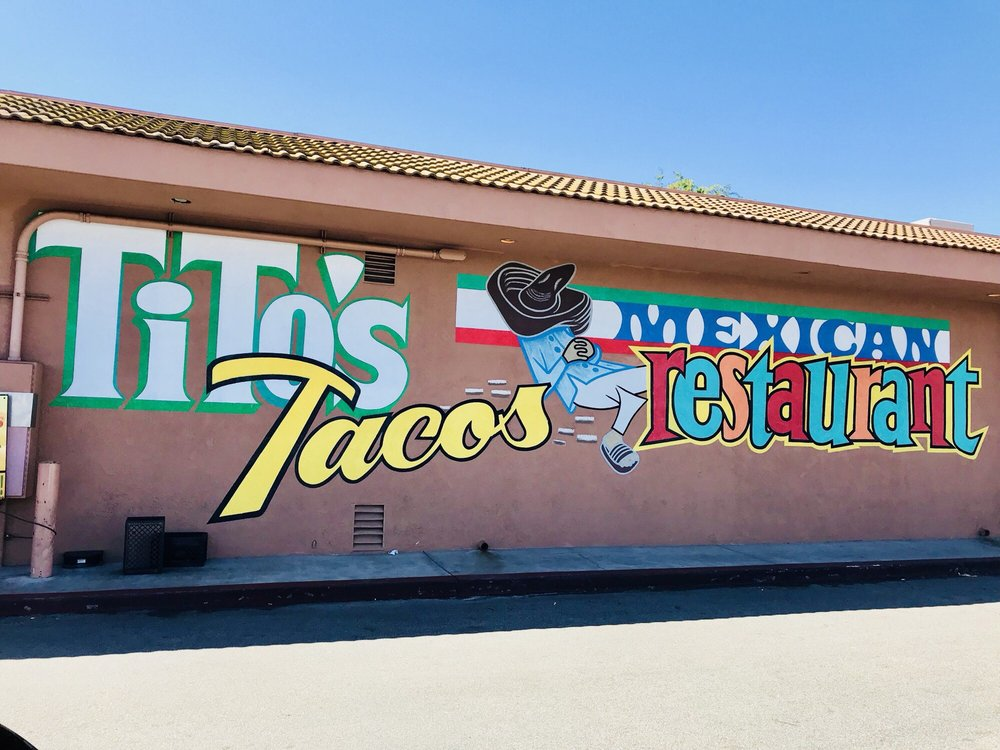
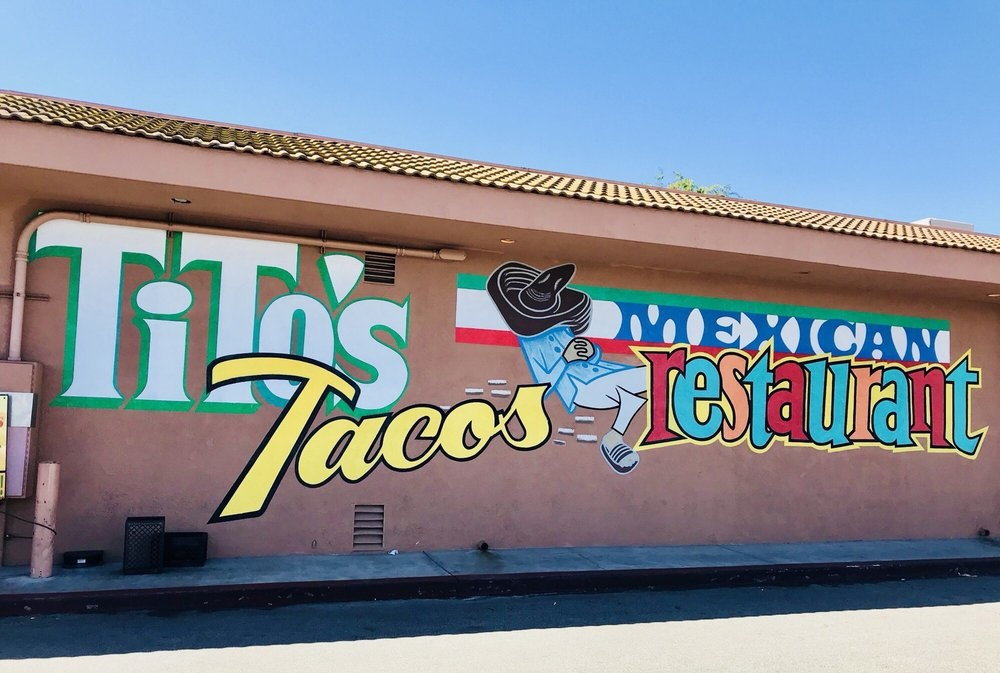
Midterm (C15): completed About page for all responsive screen sizes; slight edit to mural image; changed name 'Location' to 'Contact Us'

diff --git a/week5-6_Midterm/Pages/About.html b/week5-6_Midterm/Pages/About.html
@@ -21,39 +21,41 @@
             <ul class="nav-flex">
                 <li class="list-a"> <a href="About.html">About</a> </li>
                 <li> <a href="Menu.html">Menu</a> </li>
-                <li> <a href="Location.html">Location</a> </li>
+                <li> <a href="Location.html">Contact Us</a> </li>
                 <li> <a href="News.html">News</a> </li>
             </ul>
         </nav>    
     </header>
 
-    <main class="grid-container main-grid">
-        <div class="grid-item main-item-a">
+    <main class="grid-container about-grid">
+        <div class="grid-item about-item-a">
             <img src="../Assets/about_header_img.png" alt="About Header Image_Red Car">
         </div>
 
-        <div class="grid-item main-item-b">
-            <p>Since 1959, Tito’s Tacos has provided their beloved customers with delicious Mexican Food prepared fresh daily based upon the restaurant’s original recipes.<br>Their award-winning Mexican Food Cuisine has become a longtime favorite for people from all walks of life and cultural backgrounds desiring a south-of-the-border eating experience without leaving the greater Los Angeles area.<br>Tito’s Tacos employees are fully trained in how to properly and healthfully prepare each and every menu item in order to achieve the utmost in flavorsome results for people with really good taste.</p>
+        <div class="grid-item about-item-b">
+            <h1>Since 1959</h1>
+
+            <p>Tito’s Tacos has provided their beloved customers with delicious Mexican Food prepared fresh daily based upon the restaurant’s original recipes.<br><br>Their award-winning Mexican Food Cuisine has become a longtime favorite for people from all walks of life and cultural backgrounds desiring a south-of-the-border eating experience without leaving the greater Los Angeles area.<br><br>Tito’s Tacos employees are fully trained in how to properly and healthfully prepare each and every menu item in order to achieve the utmost in flavorsome results for people with really good taste.</p>
         </div>
 
-        <div class="grid-item main-item-c">
+        <div class="grid-item about-item-c">
             <img src="../Assets/outside_titos.jpg" alt="Customers waiting outside Tito's Tacos to order and eat">
         </div>
 
-        <div class="grid-item main-item-d">
+        <div class="grid-item about-item-d">
             <img src="../Assets/mural.jpg" alt="Large mural on side of Tito's Taco's building">
         </div>
 
-        <div class="grid-item main-item-e">
+        <div class="grid-item about-item-e">
             <img src="../Assets/ordering.jpg" alt="woman worker taking customer's order">
         </div>
 
-        <div class="grid-item main-item-f">
+        <div class="grid-item about-item-f">
             <h1>For People with Really Good Taste!</h1>
         </div>
     </main>
 
-    <footer class="red-bg footer-grid-2">
+    <footer class="red-bg grid-container footer-grid-2">
         <div class="grid-container footer-grid fg-a">
             <div class="grid-item home-item-g">
                 <p>© Tito’s Tacos, 2019</p>  

diff --git a/week5-6_Midterm/CSS/layout.css b/week5-6_Midterm/CSS/layout.css
@@ -88,10 +88,10 @@
     }
 
     /* About Page */
-    .main-grid {
-        display: grid;
+    .about-grid {
         grid-template-columns: auto;
         margin: 50px auto;
+        padding: 0px 40px;
     }
 
     /* Menu Page */
@@ -159,6 +159,40 @@
     }
 
     /* About Page */
+    .about-grid {
+        grid-template-columns: 30% 4.5% 30% 4.5% 30%;
+        grid-template-rows: auto auto auto auto;
+    }
+
+    .about-item-a {
+        grid-column: 2 / span 3;
+        grid-row: 1;
+    }
+
+    .about-item-b {
+        grid-column: 1 / span 5;
+        grid-row: 2;
+    }
+
+    .about-item-c {
+        grid-column: 1 / span 1;
+        grid-row: 3;
+    }
+
+    .about-item-d {
+        grid-column: 3 / span 1;
+        grid-row: 3;
+    }
+
+    .about-item-e {
+        grid-column: 5 / span 1;
+        grid-row: 3;
+    }
+
+    .about-item-f {
+        grid-column: 1 / span 5;
+        grid-row: 4;
+    }
 
     /* Menu Page */
 
@@ -172,7 +206,6 @@
 
     /* Footer for all pages excluding  Home Page */
     .footer-grid-2 {
-        display: grid;
         grid-template-columns: 65% auto 30%;
         justify-content: space-between;
     }
@@ -195,7 +228,7 @@
     }
 
     .fg-b img {
-        width: 70%;
+        width: 60%;
     }
 
     /* About Page */

diff --git a/week5-6_Midterm/main.css b/week5-6_Midterm/main.css
@@ -53,6 +53,39 @@ h1, h2, h3, p {
     }
 
     /* About Page */
+    .about-grid.about-item {
+        width: 100%;
+        margin: 0px auto;
+    }
+
+    .about-grid img {
+        width: 100%;
+    }
+
+    .about-item-a {
+        padding-bottom: 30px;
+    }
+
+    .about-item-b {
+        padding-bottom: 50px;
+    }
+
+    .about-grid h1, p {
+        text-align: center;
+    }
+
+    .about-grid p {
+        font-size: 20px;
+    }
+
+    .about-grid h1 {
+        font-weight: 900;
+    }
+
+    .about-item-f {
+        padding-top: 50px;
+        font-style: italic;
+    }
 
     /* Menu Page */
 
@@ -114,10 +147,19 @@ h1, h2, h3, p {
 /* Large Laptop Screens */
 @media(min-width: 960px) {
     main {
-        max-width: 1200px;
+        max-width: 1000px;
     }
 
     header, footer {
-        max-width: 1600px;
+        max-width: 1350px;
     }
+
+    /* About Page */
+
+    /* Menu Page */
+
+    /* Location Page */
+
+    /* News Page */
+
 }

diff --git a/week5-6_Midterm/Pages/Location.html b/week5-6_Midterm/Pages/Location.html
@@ -21,15 +21,17 @@
             <ul class="nav-flex">
                 <li> <a href="About.html">About</a> </li>
                 <li> <a href="Menu.html">Menu</a> </li>
-                <li class="list-c"> <a href="Location.html">Location</a> </li>
+                <li class="list-c"> <a href="Location.html">Contact Us</a> </li>
                 <li> <a href="News.html">News</a> </li>
             </ul>
         </nav>
     </header>
 
-    <main></main>
+    <main>
+        
+    </main>
 
-    <footer class="red-bg footer-grid-2">
+    <footer class="red-bg grid-container footer-grid-2">
         <div class="grid-container footer-grid fg-a">
             <div class="grid-item home-item-g">
                 <p>© Tito’s Tacos, 2019</p>  

diff --git a/week5-6_Midterm/Pages/Menu.html b/week5-6_Midterm/Pages/Menu.html
@@ -21,7 +21,7 @@
             <ul class="nav-flex">
                 <li> <a href="About.html">About</a> </li>
                 <li class="list-b"> <a href="Menu.html">Menu</a> </li>
-                <li> <a href="Location.html">Location</a> </li>
+                <li> <a href="Location.html">Contact Us</a> </li>
                 <li> <a href="News.html">News</a> </li>
             </ul>
         </nav>    
@@ -38,7 +38,7 @@
         </div>
     </main>
 
-    <footer class="red-bg footer-grid-2">
+    <footer class="red-bg grid-container footer-grid-2">
         <div class="grid-container footer-grid fg-a">
             <div class="grid-item home-item-g">
                 <p>© Tito’s Tacos, 2019</p>  

diff --git a/week5-6_Midterm/Pages/News.html b/week5-6_Midterm/Pages/News.html
@@ -21,7 +21,7 @@
             <ul class="nav-flex">
                 <li> <a href="About.html">About</a> </li>
                 <li> <a href="Menu.html">Menu</a> </li>
-                <li> <a href="Location.html">Location</a> </li>
+                <li> <a href="Location.html">Contact Us</a> </li>
                 <li class="list-d"> <a href="News.html">News</a> </li>
             </ul>
         </nav>
@@ -29,7 +29,7 @@
 
     <main></main>
 
-    <footer class="red-bg footer-grid-2">
+    <footer class="red-bg grid-container footer-grid-2">
         <div class="grid-container footer-grid fg-a">
             <div class="grid-item home-item-g">
                 <p>© Tito’s Tacos, 2019</p>  

diff --git a/week5-6_Midterm/index.html b/week5-6_Midterm/index.html
@@ -21,7 +21,7 @@
             <ul class="nav-flex">
                 <li class="list-hover-a"> <a class="link-a" href="Pages/About.html">About</a> </li>
                 <li class="list-hover-b"> <a class="link-b" href="Pages/Menu.html">Menu</a> </li>
-                <li class="list-hover-c"> <a class="link-c" href="Pages/Location.html">Location</a> </li>
+                <li class="list-hover-c"> <a class="link-c" href="Pages/Location.html">Contact Us</a> </li>
                 <li class="list-hover-d"> <a class="link-d" href="Pages/News.html">News</a> </li>
             </ul>
         </nav>

diff --git a/week5-6_Midterm/CSS/typography.css b/week5-6_Midterm/CSS/typography.css
@@ -1,1 +1,1 @@
-@import url('https://fonts.googleapis.com/css2?family=Lato&display=swap');
+@import url('https://fonts.googleapis.com/css2?family=Lato:ital,wght@0,400;0,700;0,900;1,400;1,700&display=swap');
